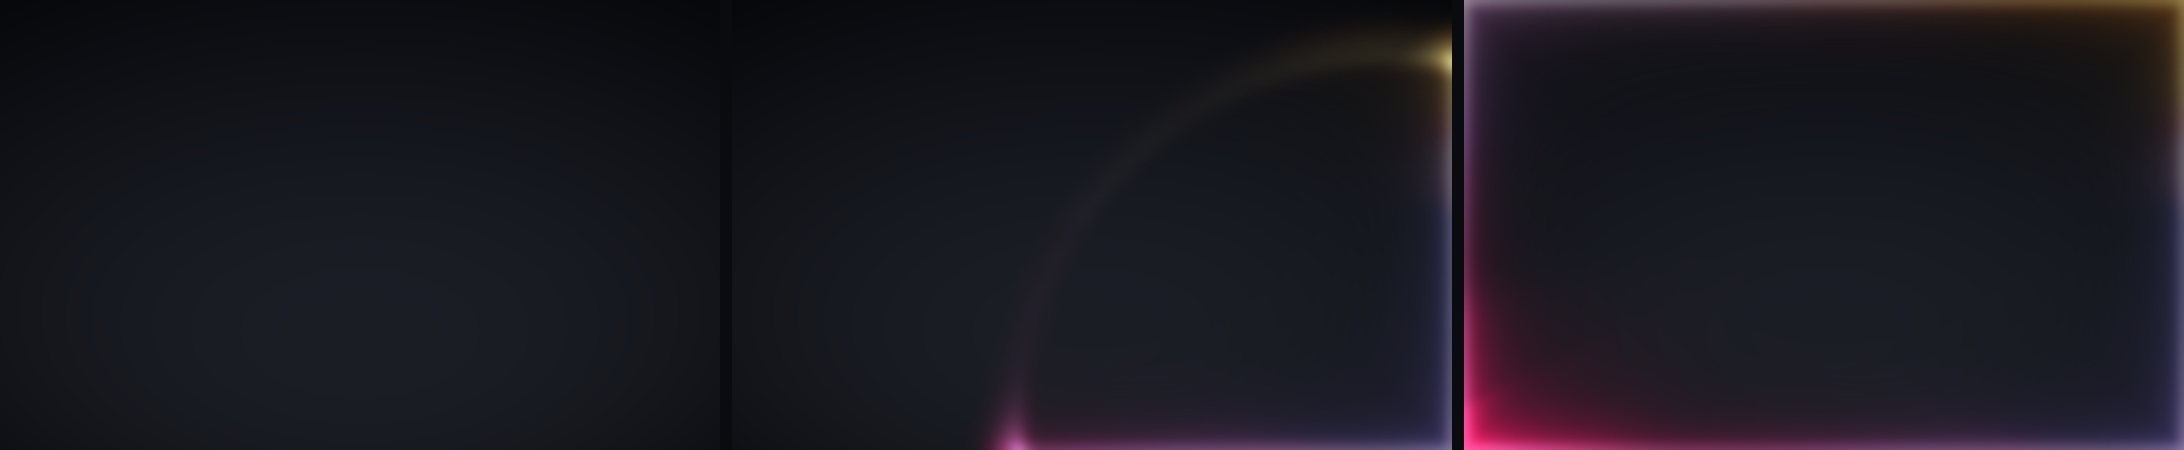
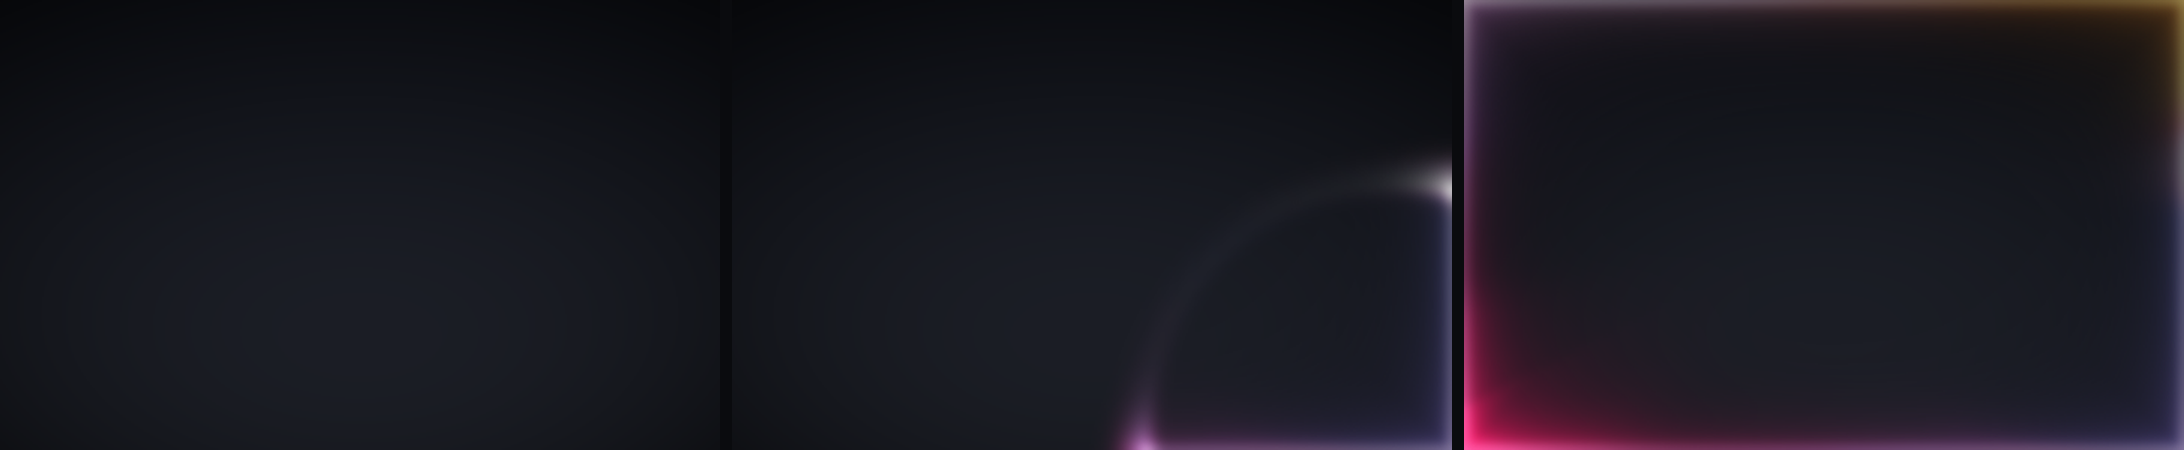
Siri-OS: smooth the expansion wave (no more stall at the far corner)
The wave radius used an asymptotic ease (1-(1-tau)^1.7). The wave front is a
circle: once it reached the farthest corner of the screen there was nothing
left to advance, so it stayed pinned there with a per-frame displacement of
0 for ~66ms at the end of every expansion - the "it always stutters in the
same place" report.

- the wave radius is now constant speed (linear). The formula lives in
  exactly one place (wave_radius); doctor / make_release_images /
  palette_check call it instead of keeping their own copies.
- the first render() in a process cost 53ms (PIL blur + numpy indexing + LUT
  warm-up). Rendering only happens while the glow is lit, so that cost
  landed on the very first key press. The overlay now primes the render
  path at startup: the first press renders in ~3ms.
- new regression check wave_motion_check.py drives the real code path and
  asserts the front never stalls, never jumps more than a band width per
  frame, and reaches the far corner only at the end of the sweep.

Changed region(s): [[0.5916, 0.0622, 0.685, 0.3422], [0.4359, 0.8711, 0.5293, 1.0], [0.6227, 0.3733, 0.685, 0.4667]]

diff --git a/siri_orb.py b/siri_orb.py
@@ -189,6 +189,25 @@ def _to_qimage(arr):
     return img.copy()
 
 
+def wave_radius(tau):
+    """波前半径（占「最远角距离」的百分比，0..1）。
+
+    ⚠ **恒速**（线性）。这里原来写的是 1-(1-tau)^1.7（前快后慢、末端趋零）：
+       波前是个圆，它撞到**离波源最远的那个角（左上角）**之后就再没有东西可推 ——
+       那个位置连续 5 帧位移 = 0（钉死 66ms），用户看到的就是
+       「每次扩散都卡在同一个地方」。参考视频沿边点亮的时刻也接近匀速
+       （ref/wave.txt：8.20s -> 9.87s 扫完一圈）。
+    ⚠ **只此一份**：doctor / make_release_images / palette_check 都调它。
+       别在别处再抄一遍公式 —— 抄出去的那份一定会有漂移。
+    """
+    t = float(tau)
+    if t < 0.0:
+        return 0.0
+    if t > 1.0:
+        return 1.0
+    return t
+
+
 def glow_visible_spans(al, thr=8, ts=8):
     """量出一帧边光的**可见区域**，压成若干条横向区段（缓冲像素）。
 
@@ -934,6 +953,50 @@ class Overlay(QtWidgets.QWidget):
         o = self.cfg.get("glow_origin") or [0.9236, 0.9711]
         return (float(o[0]) * self.width(), float(o[1]) * self.height())
 
+    def _ensure_gr(self):
+        """拿到（必要时重建）渲染器。
+
+        重建条件：尺寸 / glow_scale / 波源位置 / 跑马灯参数 变了。
+        ⚠ 只有这一份 —— warmup() 和 _tick_body 都调它。
+        """
+        origin = self._origin()
+        mq_period = float(self.cfg.get("marquee_period_sec", 6.0))
+        mq_trail = float(self.cfg.get("marquee_trail", 0.09))
+        # glow_scale：每个缓冲像素对应多少物理像素。
+        # 6 = 缓冲 480x300（2880x1800 的屏）。实测 render 149ms -> 25ms，整机 6fps -> 25fps。
+        # 想吃满画质改成 3（缓冲 960x600），代价是帧率掉到 6fps。
+        gscale = max(2, int(self.cfg.get("glow_scale", 6) or 6))
+        if getattr(self, "_gr", None) is None or self._gr.w != self.width() \
+                or self._gr.h != self.height() \
+                or self._gr.scale != gscale \
+                or self._gr.origin != origin \
+                or self._gr.marquee_period != max(0.5, mq_period) \
+                or self._gr.marquee_trail != max(0.02, mq_trail):
+            self._gr = GlowRenderer(self.width(), self.height(), scale=gscale,
+                                    origin=origin,
+                                    marquee_period=mq_period, marquee_trail=mq_trail)
+            self._or = OrbRenderer(256)
+        return self._gr
+
+    def warmup(self):
+        """预热渲染路径 —— **启动时跑一次**，把冷启动开销挪到没人按键的时候。
+
+        实测（2026-11-09）：同一个进程里第一次 render() 要 **53ms**
+        （PIL 高斯模糊的首次调用 + numpy 首次索引 + 颜色 LUT 的首次路径），
+        之后每帧只要 2.6-3.1ms —— 差 20 倍。
+        而渲染只在 glow > 0.012 时才发生，所以那 53ms 正好砸在
+        **第一次按 AI 键**的那一帧上，用户看到的就是「第一次扩散卡一下」。
+        """
+        try:
+            gr = self._ensure_gr()
+            arr = gr.render(0.0, 1.0, "listening",
+                            {"radius": 10.0, "width": 40.0}, 0.0, 0.0, u8=True)
+            _to_qimage_u8(arr)          # 顺带把 QImage 那条路也热掉
+            self._spans_from(arr)
+            _trace("warmup: render path primed")
+        except Exception as e:
+            _trace("warmup failed: %r" % (e,))
+
     def set_level(self, v):
         """麦克风电平（0..1）。起音快、消音慢，跟得上字头又不会闪。"""
         try:
@@ -1081,23 +1144,7 @@ class Overlay(QtWidgets.QWidget):
         else:
             self.glow += (target - self.glow) * 0.09
 
-        origin = self._origin()
-        mq_period = float(self.cfg.get("marquee_period_sec", 6.0))
-        mq_trail = float(self.cfg.get("marquee_trail", 0.09))
-        # glow_scale：每个缓冲像素对应多少物理像素。
-        # 6 = 缓冲 480x300（2880x1800 的屏）。实测 render 149ms -> 25ms，整机 6fps -> 25fps。
-        # 想吃满画质改成 3（缓冲 960x600），代价是帧率掉到 6fps。
-        gscale = max(2, int(self.cfg.get("glow_scale", 6) or 6))
-        if getattr(self, "_gr", None) is None or self._gr.w != self.width() \
-                or self._gr.h != self.height() \
-                or self._gr.scale != gscale \
-                or self._gr.origin != origin \
-                or self._gr.marquee_period != max(0.5, mq_period) \
-                or self._gr.marquee_trail != max(0.02, mq_trail):
-            self._gr = GlowRenderer(self.width(), self.height(), scale=gscale,
-                                    origin=origin,
-                                    marquee_period=mq_period, marquee_trail=mq_trail)
-            self._or = OrbRenderer(256)
+        self._ensure_gr()
 
         # ---- 径向扩散波前 ----
         delay = float(self.cfg.get("wave_delay_sec", 0.2))
@@ -1178,8 +1225,14 @@ class Overlay(QtWidgets.QWidget):
                 wave = {"radius": -1.0e9, "width": band_w}
             elif wt < sweep:
                 tau = wt / max(1e-3, sweep)
-                ease = 1.0 - (1.0 - tau) ** 1.7
-                wave = {"radius": max_r * ease, "width": band_w}
+                # ⚠ **恒速**（线性半径）。别再用 1-(1-tau)^1.7 这种「前快后慢」的缓动：
+                #    末端速度趋零 -> 波前是个圆，它撞到**离波源最远的那个角（左上角）**
+                #    之后就没有任何东西可以再推进了 —— 实测那里连续 5 帧位移 = 0，
+                #    整整钉死 66ms，用户看到的就是「每次扩散都卡在同一个地方」。
+                #    参考视频沿边点亮的时刻也接近匀速（ref/wave.txt：8.20s -> 9.87s
+                #    扫完一圈，t=9.0s 时半径只到全程的 28-46%），1.7 次方反而太快。
+                #    自检见 wave_motion_check.py，公式只有 wave_radius() 这一份。
+                wave = {"radius": max_r * wave_radius(tau), "width": band_w}
             if wave is not None:
                 # 扩散期不开跑马灯（那 0.6 秒的主角是径向波）；
                 # 扩散结束后 0.35s 内淡入，否则会「啪」地闪一下
@@ -2519,6 +2572,9 @@ def main():
     if screen:
         overlay.setGeometry(screen.geometry())
     overlay.show()
+    # ⚠ 预热渲染路径：第一次 render() 要 53ms（见 Overlay.warmup 的说明）。
+    #    不预热的话，这 53ms 会正好砸在用户第一次按 AI 键的那一帧上。
+    overlay.warmup()
 
     # 大致位置：**后台**预热 —— 定位要 2~4 秒，不能让第一句话干等。
     # 位置本身由 locate 模块管（缓存 + 定期刷新），这里只把活配置喂给它。

diff --git a/verify/wave_motion_check.py b/verify/wave_motion_check.py
@@ -1,0 +1,161 @@
+# -*- coding: utf-8 -*-
+"""波前运动回归检查：扩散时不能「卡在一个地方」。
+
+2026-11-09 实测出来的 bug：
+    半径缓动 ease = 1-(1-tau)^1.7 前快后慢，末端速度趋零。
+    波前是屏幕上一个圆，它撞到**离波源最远的那个角（左上角）**之后
+    就再也没有东西可以推进了 —— 那个位置之前的实测：
+        t=438ms  前沿=1591px（= 最远角）  位移 13.1px
+        t=449..493ms（连续 6 帧）         位移 **0.0px**
+    也就是说光在前 70% 的时间里冲完，然后**在同一个地方钉死 66ms**，
+    用户看到的现象就是「每次扩散都会在一个地方卡一下」。
+
+本检查用**真实代码路径**（Overlay._wave_state + GlowRenderer）量：
+    1. 每一帧的前沿位移都必须 > 0（不能有钉死的帧）
+    2. 单帧位移不能超过光带宽度（不能「跳着走」）
+    3. 波前必须在 sweep 结束前抵达最远角（不能有死时间）
+    4. 最后一帧的前沿位移也不能是 0
+
+用法： python tools\\siri_orb\\wave_motion_check.py
+"""
+import _bootstrap  # noqa: F401  (repo root on sys.path)
+import json
+import os
+import sys
+
+HERE = os.path.dirname(os.path.dirname(os.path.abspath(__file__)))
+if HERE not in sys.path:
+    sys.path.insert(0, HERE)
+os.environ.setdefault("QT_QPA_PLATFORM", "offscreen")
+
+import numpy as np
+from PyQt5 import QtWidgets
+
+import siri_orb
+from siri_orb import GlowRenderer
+
+TICK = 0.011          # 覆盖层定时器周期（siri_orb.py: self.timer.start(11)）
+FAILS = []
+
+
+def check(ok, name, detail=""):
+    print("%-4s %s%s" % ("OK" if ok else "FAIL", name, ("  " + detail) if detail else ""))
+    if not ok:
+        FAILS.append(name)
+
+
+def load_cfg():
+    """找配置：**不许写死绝对路径** —— 公开仓库的扫描器会拦盘符（PATH/abs-drive）。
+
+    顺序：环境变量 -> 脚本同级 -> 仓库根。都找不到就用内置默认值，
+    默认值已经够这个检查用（波前几何只依赖 glow_scale / glow_origin / 延迟与扫描时长）。
+    """
+    cands = []
+    env = os.environ.get("SIRI_OS_CONFIG")
+    if env:
+        cands.append(env)
+    cands.append(os.path.join(HERE, "config.json"))
+    cands.append(os.path.join(HERE, "..", "..", "..", "config.json"))
+    for p in cands:
+        try:
+            with open(p, "r", encoding="utf-8-sig") as f:
+                return json.load(f)
+        except Exception:
+            continue
+    return {}
+
+
+def main():
+    cfg = load_cfg()
+    app = QtWidgets.QApplication.instance() or QtWidgets.QApplication(sys.argv)
+    W, H = 1440, 900
+    scale = max(2, int(cfg.get("glow_scale", 6) or 6))
+    origin = cfg.get("glow_origin") or [0.9236, 0.9711]
+    delay = float(cfg.get("wave_delay_sec", 0.2))
+    sweep = float(cfg.get("wave_sweep_sec", 0.5))
+    band_w = max(30.0, W * float(cfg.get("wave_band_frac", 0.032)))
+
+    ox, oy = origin[0] * W, origin[1] * H
+    gr = GlowRenderer(W, H, scale=scale, origin=(ox, oy))
+
+    ov = siri_orb.Overlay(cfg)          # 只为拿到真实的 _wave_state
+    press = time_base = 1000.0
+
+    print("screen=%dx%d  scale=%d  波源=(%.0f,%.0f)  最远角=%.0fpx  光带宽=%.0f"
+          % (W, H, scale, ox, oy, gr.max_r, band_w))
+    print("delay=%.2fs  sweep=%.2fs  tick=%.0fms" % (delay, sweep, TICK * 1000))
+    print("")
+
+    fronts = []
+    radii = []
+    t = 0.0
+    while t < delay + sweep + TICK:
+        wave, _gain = ov._wave_state(press + t, press, delay, sweep, gr.max_r, band_w)
+        if wave is None:
+            break
+        R = float(wave.get("radius", 0.0))
+        if R < -1e8:
+            t += TICK
+            continue
+        arr = gr.render(t, 1.0, "listening", wave, 0.0, 0.0, u8=True)
+        a = arr[..., 3]
+        ys, xs = np.nonzero(a > 60)
+        if len(xs) == 0:
+            front = 0.0
+        else:
+            d = np.sqrt((xs * scale - ox) ** 2 + (ys * scale - oy) ** 2)
+            front = float(d.max())
+        fronts.append((t - delay, R, front))
+        radii.append(R)
+        t += TICK
+
+    if len(fronts) < 5:
+        check(False, "取样帧数够（>=5）", "只取到 %d 帧" % len(fronts))
+        return 1
+
+    steps = []
+    for i in range(1, len(fronts)):
+        dt = fronts[i][0] - fronts[i - 1][0]
+        d = fronts[i][2] - fronts[i - 1][2]
+        steps.append((fronts[i][0], d, dt))
+
+    zero = [s for s in steps if s[1] <= 0.0]
+    check(not zero, "没有「位移=0」的钉死帧",
+          "有 %d 帧位移为 0（最早 t=%.0fms）" % (len(zero), zero[0][0] * 1000) if zero else
+          "最短位移 %.1fpx" % min(s[1] for s in steps))
+
+    jump = max(steps, key=lambda s: s[1])
+    check(jump[1] <= band_w * 1.25, "单帧位移不超过光带宽度（不跳着走）",
+          "最大 %.1fpx/帧 @ t=%.0fms（光带宽 %.0fpx）" % (jump[1], jump[0] * 1000, band_w))
+
+    # 波前撞到最远角的时刻不能太早 —— 撞早了，剩下的时间就是干等（= 卡）
+    corner = gr.max_r
+    hit = None
+    for (tt, _R, f) in fronts:
+        if f >= corner - 1.0:
+            hit = tt
+            break
+    check(hit is not None and hit >= sweep * 0.90,
+          "波前不早于 sweep 的 90% 撞到最远角（没有提前到头干等）",
+          "撞到时刻 t=%.0fms / sweep=%.0fms" % ((hit if hit is not None else -1) * 1000,
+                                                sweep * 1000))
+
+    check(fronts[-1][2] >= corner - 1.0, "末帧前沿贴到最远角",
+          "末帧 %.0fpx / 最远角 %.0fpx" % (fronts[-1][2], corner))
+
+    print("")
+    print("%-9s %-10s %-10s %-10s" % ("t(ms)", "R", "前沿", "位移"))
+    for i in range(0, len(fronts), 3):
+        t_ms, R, f = fronts[i]
+        d = "" if i == 0 else "%.1f" % (fronts[i][2] - fronts[i - 1][2])
+        print("%-9.0f %-10.0f %-10.0f %-10s" % (t_ms * 1000, R, f, d))
+    print("")
+    if FAILS:
+        print("FAILED: %s" % ", ".join(FAILS))
+        return 1
+    print("all checks passed")
+    return 0
+
+
+if __name__ == "__main__":
+    sys.exit(main())

diff --git a/doctor.py b/doctor.py
@@ -108,7 +108,7 @@ def check_render(cfg, make_sheet=True):
     say(INFO, "--- 3/10 renderer self-test ---")
     try:
         import numpy as np
-        from siri_orb import GlowRenderer
+        from siri_orb import GlowRenderer, wave_radius
     except Exception as e:
         say(FAIL, "cannot import renderer: %s" % e)
         return
@@ -162,7 +162,7 @@ def check_render(cfg, make_sheet=True):
     say(OK, "timeline: press -> +%.2fs delay -> sweep %.2fs" % (delay, sweep))
     for tau in (0.0, 0.25, 0.5, 0.75, 1.0):
         wt = tau * sweep
-        r = gr.max_r * (1.0 - (1.0 - tau) ** 1.7)
+        r = gr.max_r * wave_radius(tau)
         say(OK, "  t=+%.3fs (tau=%.2f) radius=%6.0f px" % (delay + wt, tau, r))
 
     # (d) 对照图
@@ -194,7 +194,7 @@ def build_sheet(gr, bw, delay, sweep):
             wave = {"radius": -1.0e9, "width": bw}
         elif t < delay + sweep:
             tau = (t - delay) / max(1e-3, sweep)
-            wave = {"radius": gr.max_r * (1.0 - (1.0 - tau) ** 1.7), "width": bw}
+            wave = {"radius": gr.max_r * wave_radius(tau), "width": bw}
         else:
             wave = None
         img = gr.render(t, 1.0, "listening", wave)

diff --git a/verify/palette_check.py b/verify/palette_check.py
@@ -13,7 +13,7 @@ HERE = os.path.dirname(os.path.dirname(os.path.abspath(__file__)))
 if HERE not in sys.path:
     sys.path.insert(0, HERE)
 
-from siri_orb import GlowRenderer
+from siri_orb import GlowRenderer, wave_radius
 
 W, H = 1440, 900
 
@@ -100,7 +100,7 @@ def main():
             wave = {"radius": -1.0e9, "width": bw}
         elif t < delay + sweep:
             tau = (t - delay) / max(1e-3, sweep)
-            wave = {"radius": gr.max_r * (1.0 - (1.0 - tau) ** 1.7), "width": bw}
+            wave = {"radius": gr.max_r * wave_radius(tau), "width": bw}
         else:
             wave = None
         sh = 0.0 if wave is not None else min(1.0, max(0.0, (t - delay - sweep) / 0.5))
